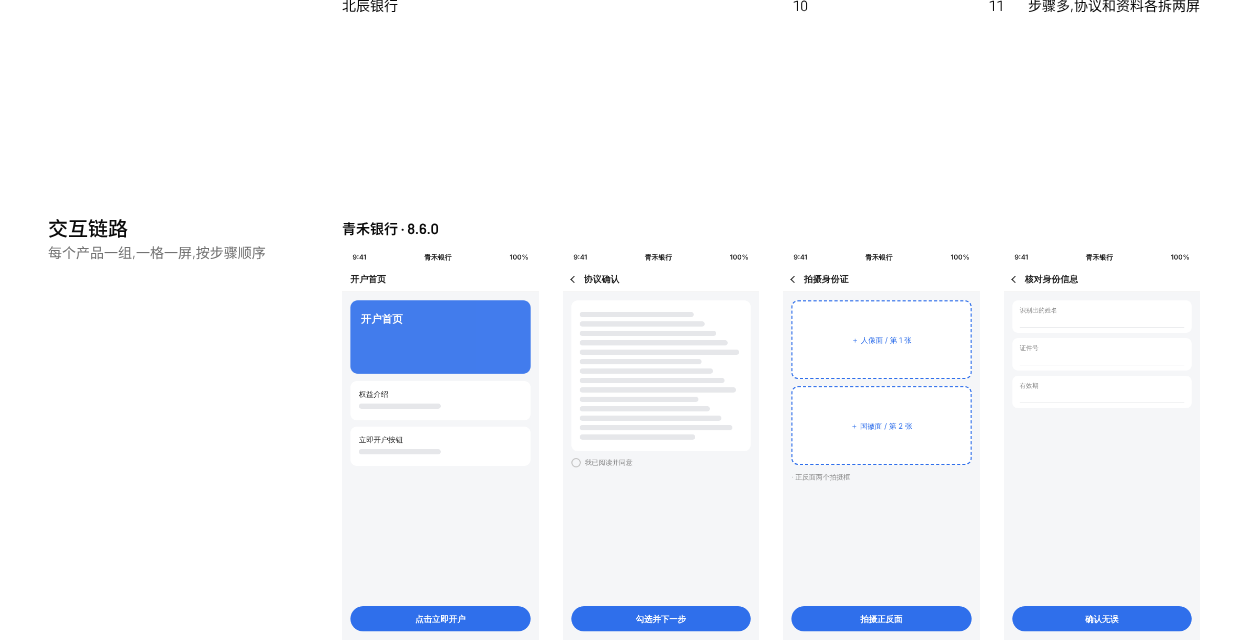
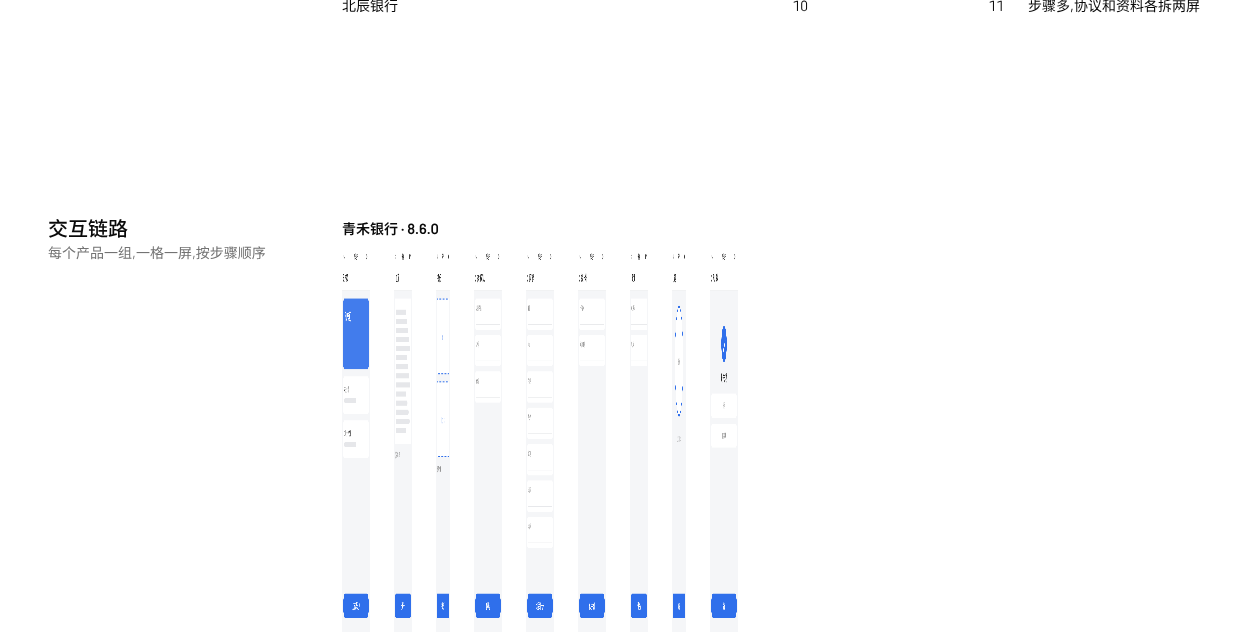
ui-loop: snapshot k1 round-2 workspace mid-run
Claude-Session: https://claude.ai/code/session_01B6BvnZawy2aUhBeLpK9EKL

diff --git a/experiments/ui-loop/traces/_components/k1/app/src/components/report/index.tsx b/experiments/ui-loop/traces/_components/k1/app/src/components/report/index.tsx
@@ -7,7 +7,6 @@
 import * as React from "react"
 
 import { cn } from "@/lib/utils"
-import { AspectRatio } from "@/components/ui/aspect-ratio"
 import { Node, type SpecNode } from "./render"
 
 const SPAN = ["", "col-span-1", "col-span-2", "col-span-3", "col-span-4", "col-span-5", "col-span-6", "col-span-7", "col-span-8", "col-span-9", "col-span-10", "col-span-11", "col-span-12"]
@@ -91,23 +90,30 @@ export function Text({ children, className, span }: Placed & { children: string 
   return <Node node={{ type: "text", text: children, className }} ctx={{ span }} />
 }
 
-// Screenshots: one screen per Figure, composed in a Grid (one cell per screen,
-// the grid sets the cell width). The image is held to the phone-screenshot
-// ratio, so a row of figures keeps one height and the labels line up.
-const SCREEN_RATIO = 375 / 760
+// Screenshots: a FigureRow holds a strip of Figures (one screen each) and
+// scrolls sideways, so a long chain stays on one line and never widens the
+// page. Images share one height and keep their own ratio, so a row of screens
+// lines up at the top and nothing is cropped; the width follows from the
+// ratio, which is why the strip scrolls and no ratio prop is needed.
+const IMAGE_HEIGHT = "h-96"
 
-export function Figure({ span, className, ...props }: Placed & React.ComponentProps<"figure">) {
-  return <figure data-slot="figure" className={cn("flex flex-col gap-2", span && SPAN[span], className)} {...props} />
+export function FigureRow({ className, ...props }: React.ComponentProps<"div">) {
+  return <div data-slot="figure-row" className={cn("flex w-full gap-6 overflow-x-auto pb-2", className)} {...props} />
 }
 
-// ratio: width / height. Defaults to a phone screenshot; pass the source's own
-// ratio when the images are not 375x760 so they are not cropped.
-export function FigureImage({ ratio = SCREEN_RATIO, className, ...props }: React.ComponentProps<"img"> & { ratio?: number }) {
-  return (
-    <AspectRatio ratio={ratio} className="w-full overflow-hidden">
-      <img data-slot="figure-image" className={cn("h-full w-full object-cover", className)} {...props} />
-    </AspectRatio>
-  )
+// grid + w-min: the figure is as wide as its image (the single auto track is
+// sized by the image's min-content), so the label and text below wrap to the
+// image width instead of stretching the strip.
+export function Figure({ className, ...props }: React.ComponentProps<"figure">) {
+  return <figure data-slot="figure" className={cn("grid w-min shrink-0 gap-2", className)} {...props} />
+}
+
+// A screenshot at the shared height; width follows the source ratio, so the
+// image is never cropped. max-w-none undoes the reset's max-width, which would
+// otherwise make the sizing circular; justify-self-start keeps the ratio if the
+// figure is wider than the image (e.g. a long unbreakable label).
+export function FigureImage({ className, ...props }: React.ComponentProps<"img">) {
+  return <img data-slot="figure-image" className={cn("block w-auto max-w-none justify-self-start", IMAGE_HEIGHT, className)} {...props} />
 }
 
 // The screen or view name, on the line the design gives 12px notes.

diff --git a/experiments/ui-loop/traces/_components/k1/Page.tsx b/experiments/ui-loop/traces/_components/k1/Page.tsx
@@ -10,18 +10,27 @@ import {
   DataTable,
   List,
   Figure,
+  FigureRow,
   FigureImage,
   FigureLabel,
   FigureText,
 } from "@/components/report"
 
-// One product's screens, one cell per screen, in step order. The grid fixes the
-// cell width and FigureImage holds the phone ratio, so every row of screenshots
-// lines up and the step labels sit on the same line.
+// 色觉无障碍分析的一组四张:原界面和三种色盲模拟,1200×760,和手机截图比例不同。
+const cvdViews = [
+  { name: "原界面", image: "assets/cvd-c1/original.png" },
+  { name: "红色盲", image: "assets/cvd-c1/protanopia.png" },
+  { name: "绿色盲", image: "assets/cvd-c1/deuteranopia.png" },
+  { name: "蓝色盲", image: "assets/cvd-c1/tritanopia.png" },
+]
+
+// One product's screens, one Figure per screen, in step order. The FigureRow
+// scrolls sideways and FigureImage holds one height, so every screenshot lines
+// up and the step labels sit on the same line without the row widening the page.
 function Chain({ chain }: { chain: (typeof data.chains)[number] }) {
   return (
     <Group title={`${chain.product} · ${chain.version}`}>
-      <Grid cols={4} fields={false}>
+      <FigureRow>
         {chain.steps.map((step) => (
           <Figure key={step.no}>
             <FigureImage src={step.image} alt={`${chain.product} 第 ${step.no} 步:${step.screen}`} />
@@ -34,7 +43,7 @@ function Chain({ chain }: { chain: (typeof data.chains)[number] }) {
             </FigureText>
           </Figure>
         ))}
-      </Grid>
+      </FigureRow>
     </Group>
   )
 }
@@ -128,16 +137,26 @@ export default function Report() {
         </Group>
       </Section>
 
-      <Section title="视图对照" description="一组四张,每张带视图名称,可放进 Grid 或 Block">
+      <Section title="视图对照" description="一组截图一行横向滚动,图同一高度、按原比例显示,不裁剪">
         <Block title="逐屏视图" description="同一排法用于原界面与色觉模拟视图;说明文字放在同一块里">
-          <Grid cols={4} fields={false}>
+          <FigureRow>
             {data.chains[0].steps.slice(0, 4).map((step) => (
               <Figure key={step.no}>
                 <FigureImage src={step.image} alt={`${step.screen}视图`} />
                 <FigureLabel>{step.screen}</FigureLabel>
               </Figure>
             ))}
-          </Grid>
+          </FigureRow>
+        </Block>
+        <Block title="色觉模拟" description="原界面与红色盲、绿色盲、蓝色盲模拟对照(1200×760,和手机截图比例不同)">
+          <FigureRow>
+            {cvdViews.map((view) => (
+              <Figure key={view.name}>
+                <FigureImage src={view.image} alt={view.name} />
+                <FigureLabel>{view.name}</FigureLabel>
+              </Figure>
+            ))}
+          </FigureRow>
         </Block>
       </Section>
     </Page>

diff --git a/experiments/ui-loop/traces/_components/k1/components.md b/experiments/ui-loop/traces/_components/k1/components.md
@@ -4,7 +4,7 @@
 
 ```tsx
 import data from "./data.json"
-import { Page, Section, Group, Grid, Block, Text, Stat, DataTable, TrendChart, BarChart, ProgressList, List, KV, Figure, FigureImage, FigureLabel, FigureText } from "@/components/report"
+import { Page, Section, Group, Grid, Block, Text, Stat, DataTable, TrendChart, BarChart, ProgressList, List, KV, Figure, FigureRow, FigureImage, FigureLabel, FigureText } from "@/components/report"
 ```
 
 不直接写 HTML 标签(`<div>` 除外,也尽量不用),不写 `style`,不写颜色类名和任意值类名(如 `text-[13px]`)。字号、颜色、间距都由组件给出;规范允许的类名只有 design.md 里写明的几个。
@@ -38,20 +38,21 @@ import { Page, Section, Group, Grid, Block, Text, Stat, DataTable, TrendChart, B
 
 ## 截图
 
-一组可组合的部件,用来放界面截图(链路里的一格一屏、模拟视图的一组四张)。放在 `Grid` 里,一格就是一个 `Figure`;图、标签、说明的上下顺序由页面决定。
+一组可组合的部件,用来放界面截图(链路里的一格一屏、模拟视图的一组四张)。`FigureRow` 是一行横向滚动的条,里面每个 `Figure` 是一格;图、标签、说明的上下顺序由页面决定。
 
 | 组件 | props | 说明 |
 |---|---|---|
-| `Figure` | `span?`(在 `Grid` 里占几列) | 一张截图的外框,纵向排图、标签和说明 |
-| `FigureImage` | `src`, `alt`, `ratio?` | 截图本体。`ratio` 是宽/高,默认 375/760(手机截图);换别的比例的图时传源图自己的比例,否则会裁切 |
+| `FigureRow` | `className?` | 一行截图。横向滚动,超出一屏的部分隐藏,不把页面撑宽 |
+| `Figure` | `className?` | 一张截图的外框,纵向排图、标签和说明;宽度由图片决定,标签和说明在图片宽度内换行 |
+| `FigureImage` | `src`, `alt` | 截图本体。按同一高度、源图比例显示,不裁剪;宽度随比例不同而不同,所以不需要传比例 |
 | `FigureLabel` | children(字符串) | 图下面或上面的视图名(屏名、步号),12px 灰色 |
 | `FigureText` | children(字符串) | 图下面的说明(内容、操作、输入项),14px 正文 |
 
-链路明细:一个产品一组,组内一格一屏。`Grid` 的列数定每格宽度,`FigureImage` 按比例定高,所以一排截图等高、标签对齐。
+链路明细:一个产品一组,组内一格一屏,按步骤顺序排在一条 `FigureRow` 里横向滚动。
 
 ```tsx
 <Group title={`${chain.product} · ${chain.version}`}>
-  <Grid cols={4} fields={false}>
+  <FigureRow>
     {chain.steps.map((step) => (
       <Figure key={step.no}>
         <FigureImage src={step.image} alt={`${chain.product} 第 ${step.no} 步:${step.screen}`} />
@@ -59,21 +60,21 @@ import { Page, Section, Group, Grid, Block, Text, Stat, DataTable, TrendChart, B
         <FigureText>{step.content} · {step.action} · 输入 {step.inputs} 项</FigureText>
       </Figure>
     ))}
-  </Grid>
+  </FigureRow>
 </Group>
 ```
 
-模拟视图:一组四张(原界面 + 三种色觉模拟),每张带视图名,四张一行;要放说明文字就用 `Block` 的 `title`/`description` 包住这一组。`FigureLabel` 放在 `FigureImage` 前就是名称在上,放在后就是名称在下。
+模拟视图:一组四张(原界面 + 三种色觉模拟)也排在同一条 `FigureRow` 里,每张带视图名;要放说明文字就用 `Block` 的 `title`/`description` 包住这一组。`FigureLabel` 放在 `FigureImage` 前就是名称在上,放在后就是名称在下。
 
 ```tsx
 <Block title="色觉模拟" description="原界面与红色盲、绿色盲、蓝色盲模拟对照">
-  <Grid cols={4} fields={false}>
+  <FigureRow>
     {views.map((view) => (
       <Figure key={view.name}>
         <FigureImage src={view.image} alt={view.name} />
         <FigureLabel>{view.name}</FigureLabel>
       </Figure>
     ))}
-  </Grid>
+  </FigureRow>
 </Block>
 ```
